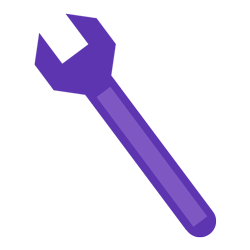
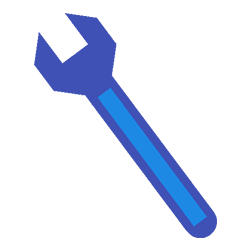
Remove purple from the app

Changed region(s): [[0.14, 0.056, 0.868, 0.952]]

diff --git a/_sass/modules/_section.scss b/_sass/modules/_section.scss
@@ -74,16 +74,6 @@ section {
         }
     }
 
-    &.section--purple {
-        h2 {
-            color: $lightPurple;
-        }
-
-        .section__header {
-            border-color: $lightPurple;
-        }
-    }
-
     &.section--half {
         @include atMedium {
             width: 50%;

diff --git a/_sass/modules/_project.scss b/_sass/modules/_project.scss
@@ -51,7 +51,7 @@
             left: 0;
             right: 0;
             bottom: 0;
-            background: rgba($lightPurple, 0.3);
+            background: rgba($lightBlue, 0.3);
             transform: scale(0);
             border: none;
             border-radius: 50%;

diff --git a/_sass/base/_variables.scss b/_sass/base/_variables.scss
@@ -1,14 +1,12 @@
 $lightTurquoise: #009688;
 
-$clickable: #f37eef;
+$clickable: #e66d73;
 
 $lightGrey: #e0e0e0;
 $midGrey: #323232;
 $darkGrey: #212121;
 
 $lightBlue: #1e88e5;
-
-$lightPurple: #7e57c2;
 
 $projectPhanary: #2e5266;
 $projectWyrmling: #12132a;

diff --git a/_includes/projectList.html b/_includes/projectList.html
@@ -1,4 +1,4 @@
-<section class='section--purple'>
+<section>
     <div class='wrapper'>
         {% include sectionHeader.html role=include.role %}
         <ul id='projectList'>

diff --git a/_sass/modules/_overlay.scss b/_sass/modules/_overlay.scss
@@ -34,7 +34,7 @@
     }
     
     &__header {
-        background: $lightPurple;
+        background: $darkGrey;
         padding: 1rem;
 
         &__disclaimer{
